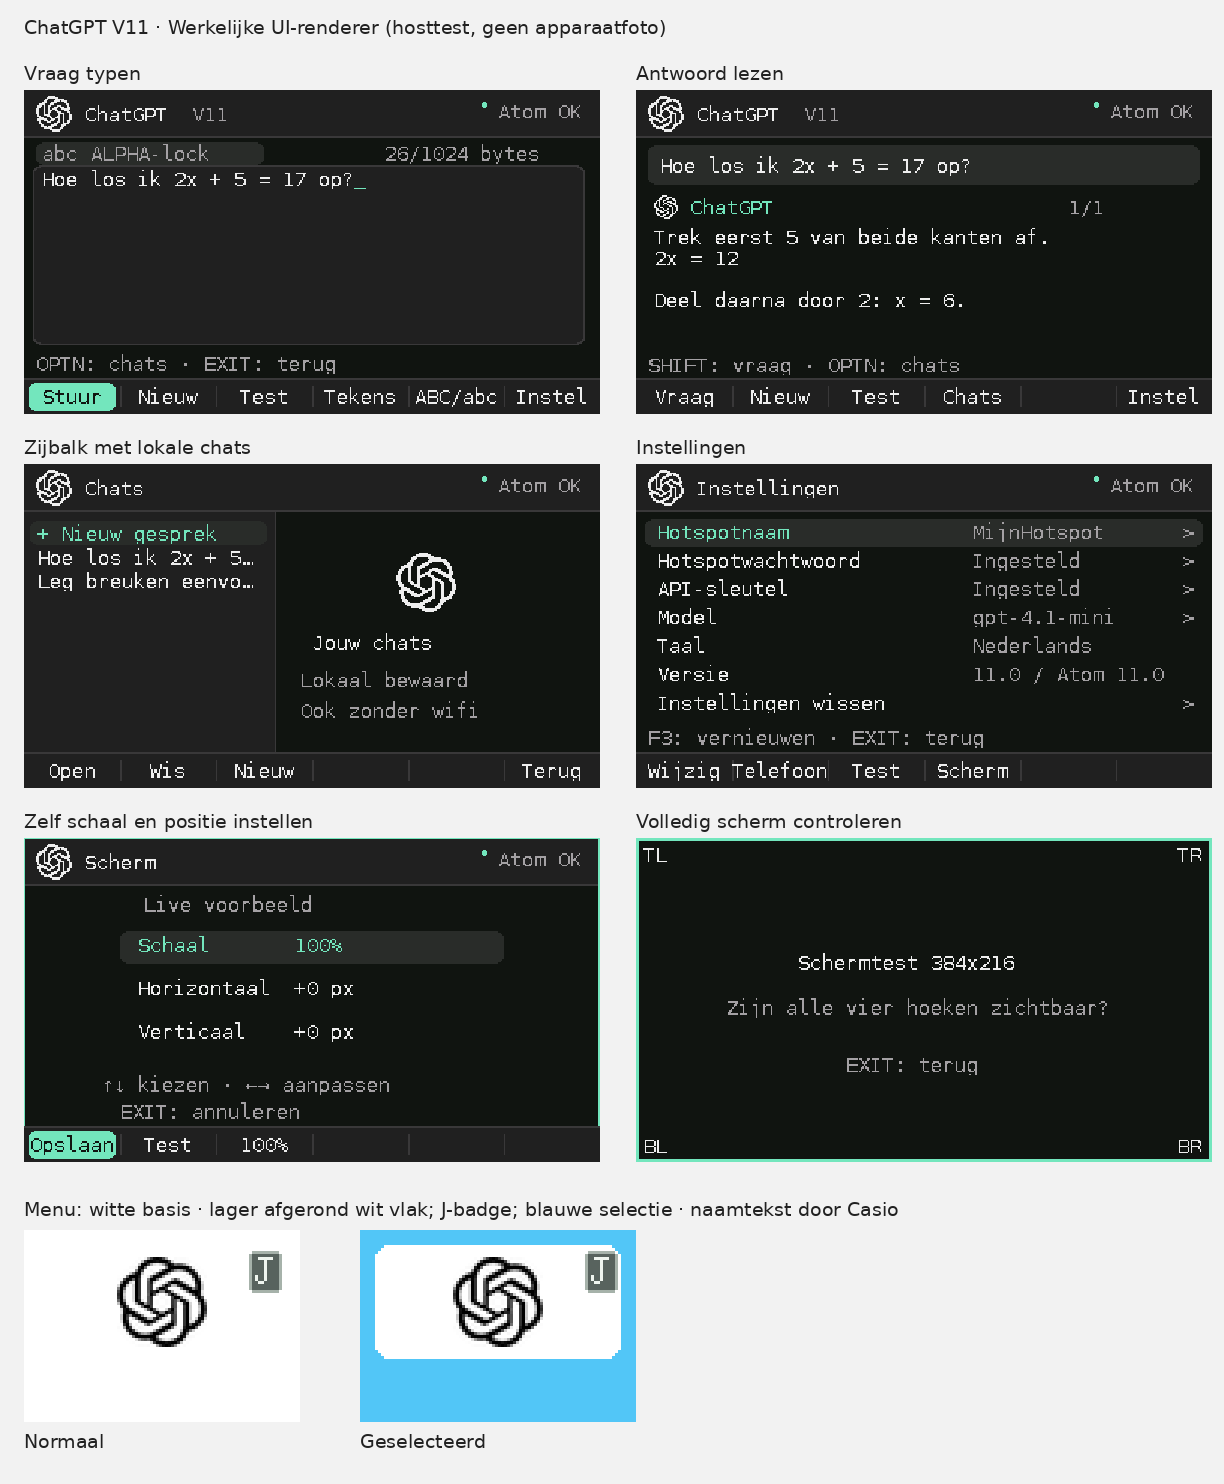
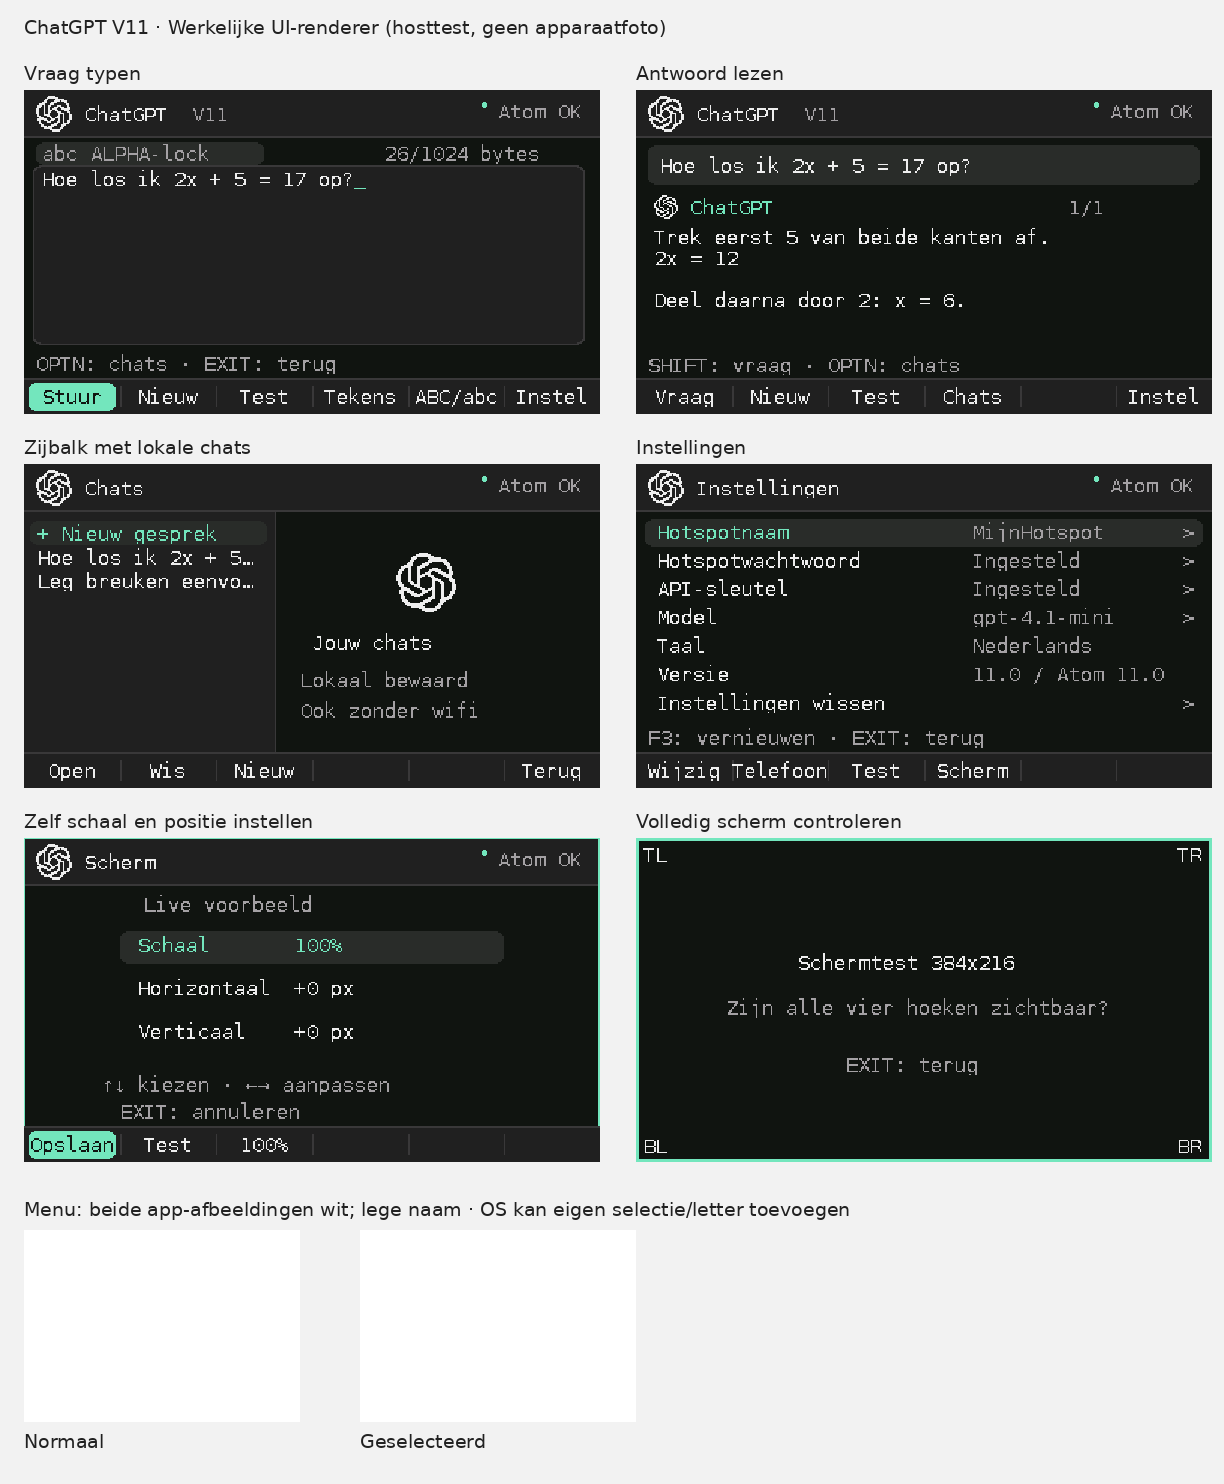
Blank V11 menu artwork and visible names, document native OS overlay limits

Changed region(s): [[0.0621, 0.8059, 0.7141, 0.9609]]

diff --git a/tools/make_assets.py b/tools/make_assets.py
@@ -1,4 +1,4 @@
-"""Rebuild V9 logo masks and 92x64 menu icons from the pinned SVG source."""
+"""Rebuild in-app logo masks and blank 92x64 menu icons from the pinned SVG source."""
 from pathlib import Path
 from io import BytesIO
 import sys
@@ -16,25 +16,8 @@ for size in (16,24,40):
  packed=[sum((data[i+j] if i+j<len(data) else 0)<<(7-j) for j in range(8)) for i in range(0,len(data),8)]
  rows += [f'static const uint8_t logo{size}[]={{',','.join('0x%02x'%v for v in packed),'};']
 rows+=['#endif'];(root/'casio/logo.h').write_text('\n'.join(rows)+'\n')
-# No rasterized label: the OS draws its own single gray/black app name.
-black_svg=(root/'assets/openai.svg').read_bytes()
-# A native menu tile includes the app-name area at its bottom. Keep all logo
-# pixels above y=40, leaving y=43..63 for the OS label and its focus drawing.
-# Never rasterize a second name or try to choose its own text size.
+# Blank menu tiles only; the in-app logo masks above remain unchanged.
+# The native OS may still draw focus or shortcut overlays outside these pixels.
 for name in ('unselected','selected'):
- im=Image.new('RGB',(92,64),(82,198,247) if name=='selected' else 'white')
- d=ImageDraw.Draw(im)
- # Lephe's CG50 template places the pictogram panel at (5,5), 82x38.
- # Keep the requested white panel and soften its four corners.
- d.rounded_rectangle((5,5,86,42),radius=5,fill='white')
- mark=Image.open(BytesIO(cairosvg.svg2png(bytestring=black_svg,output_width=120,output_height=120))).convert('RGBA').resize((30,30),Image.Resampling.LANCZOS)
- im.paste(mark,(31,9),mark)
- # Requested J shortcut badge, using a compact pixel glyph rather than a
- # platform-dependent desktop font. This does not set the OS menu position.
- d.rounded_rectangle((75,7,85,20),radius=1,fill=(88,99,94),outline=(166,178,170))
- jrows=('011111','000100','000100','000100','000100','000100','100100','100100','011000')
- for y,row in enumerate(jrows):
-  for x,pixel in enumerate(row):
-   if pixel=='1':d.point((77+x,9+y),fill=(239,245,239))
- im.save(root/f'casio/{name}.bmp')
-print('V9 menu tiles: lower rounded 82x38 white panel, black logo, J badge; blue selection outside.')
+ Image.new('RGB',(92,64),'white').save(root/f'casio/{name}.bmp')
+print('V11 blank menu tiles: both states white, no logo, badge or painted focus.')

diff --git a/tools/render_preview.py b/tools/render_preview.py
@@ -16,7 +16,7 @@ with tempfile.TemporaryDirectory() as temp:
   im=Image.open(Path(temp)/(name+'.ppm'));im.save(out/('V11-'+name+'.png'))
   d.text((x,y),label,font=font,fill='#212121');board.paste(im.resize((576,324),Image.Resampling.NEAREST),(x,y+28))
  Image.open(Path(temp)/'phone.ppm').save(out/'V11-phone.png')
-d.text((24,1198),'Menu: witte basis · lager afgerond wit vlak; J-badge; blauwe selectie · naamtekst door Casio',font=font,fill='#212121')
+d.text((24,1198),'Menu: beide app-afbeeldingen wit; lege naam · OS kan eigen selectie/letter toevoegen',font=font,fill='#212121')
 for name,label,x in [('unselected','Normaal',24),('selected','Geselecteerd',360)]:
  im=Image.open(root/f'casio/{name}.bmp');board.paste(im.resize((276,192),Image.Resampling.NEAREST),(x,1230));d.text((x,1430),label,font=font,fill='#212121')
 board.save(out/'V11-actual-screens.png');print(out/'V11-actual-screens.png')

diff --git a/UPGRADE-V11.md b/UPGRADE-V11.md
@@ -1,5 +1,21 @@
 # V11 installeren — telefooninstallatie en menuherstel
 
+## Menupatch v11.0.1 — alleen hoofdmenu
+
+De logo-afbeelding, geschilderde blauwe selectie en J-badge zijn vervangen
+door volledig witte afbeeldingen, in beide selectiestanden. De zichtbare naam
+is een spatie; de interne app-identiteit en bestandsnaam blijven behouden.
+De Casio kan zelf nog een focusmarkering of sneltoetsletter toevoegen. Dat
+is met deze aanpassing niet uitgeschakeld en niet fysiek gecontroleerd.
+
+Al V11 op beide apparaten? Vervang uitsluitend `dist\ChatGPT.g3a` in de
+hoofdmap van de Casio. Atom niet opnieuw uploaden; `CGPT3` laten staan.
+Het app-vakje neemt nog steeds een gewone menuplaats in. De interface na
+openen blijft identiek aan V11. Het bestand is nog vindbaar in USB-opslag.
+
+De onderstaande firmware-update is alleen nodig als je nog van V10 of ouder komt.
+
+
 V11 voegt installatie via de telefoon toe en wijzigt het opruimen bij het verlaten
 van ChatGPT vanwege de gemelde System ERROR bij andere pictogrammen:
 `ADDRESS(W) TARGET=00000001 PC=8C09CA4` (zoals doorgegeven).

diff --git a/README.md b/README.md
@@ -1,5 +1,11 @@
 # ChatGPT V11.0 voor Casio fx-CG50 + originele M5Stack Atom Lite
 
+**V11-menupatch (v11.0.1):** beide menuafbeeldingen zijn volledig wit en de
+zichtbare appnaam is een spatie. Alleen het Casio-menutegeltje is aangepast;
+ChatGPT zelf en de Atom blijven V11. De OS-selectierand of OS-sneltoetsletter
+kan nog zichtbaar zijn; volledige onzichtbaarheid is niet op hardware bevestigd.
+Zie [UPGRADE-V11.md](UPGRADE-V11.md).
+
 **Bijwerken naar V11: werk zowel de Casio-app als de Atom bij. Zie [UPGRADE-V11.md](UPGRADE-V11.md).**
 
 Nieuw: F6 Instellingen → F2 Telefoon opent een tijdelijk, met een willekeurig

diff --git a/docs/VERSIONS.md b/docs/VERSIONS.md
@@ -202,3 +202,10 @@ New V10 behavior still needs hardware confirmation; see UPGRADE-V10.md.
   sluiten. Aanpassing naar aanleiding van ADDRESS(W) TARGET=00000001 PC=8C09CA4.
 - Bestaande iconen, menu-resolver, bediening, chats en schermgeometrie behouden.
 - Elf softwaretestgroepen; hardwareherstel en telefoonnetwerk nog fysiek testen.
+
+
+## V11.0.1 — menuafbeeldingen
+
+Beide menutegels wit; zichtbare basis- en taalnamen bevatten alleen een spatie.
+Interne identiteit @CHATGPT behouden. Uitvoerbare Casio-code en alle Atom-binaries
+identiek aan v11.0.0. OS-overlays en werkelijk menugedrag nog op hardware testen.
